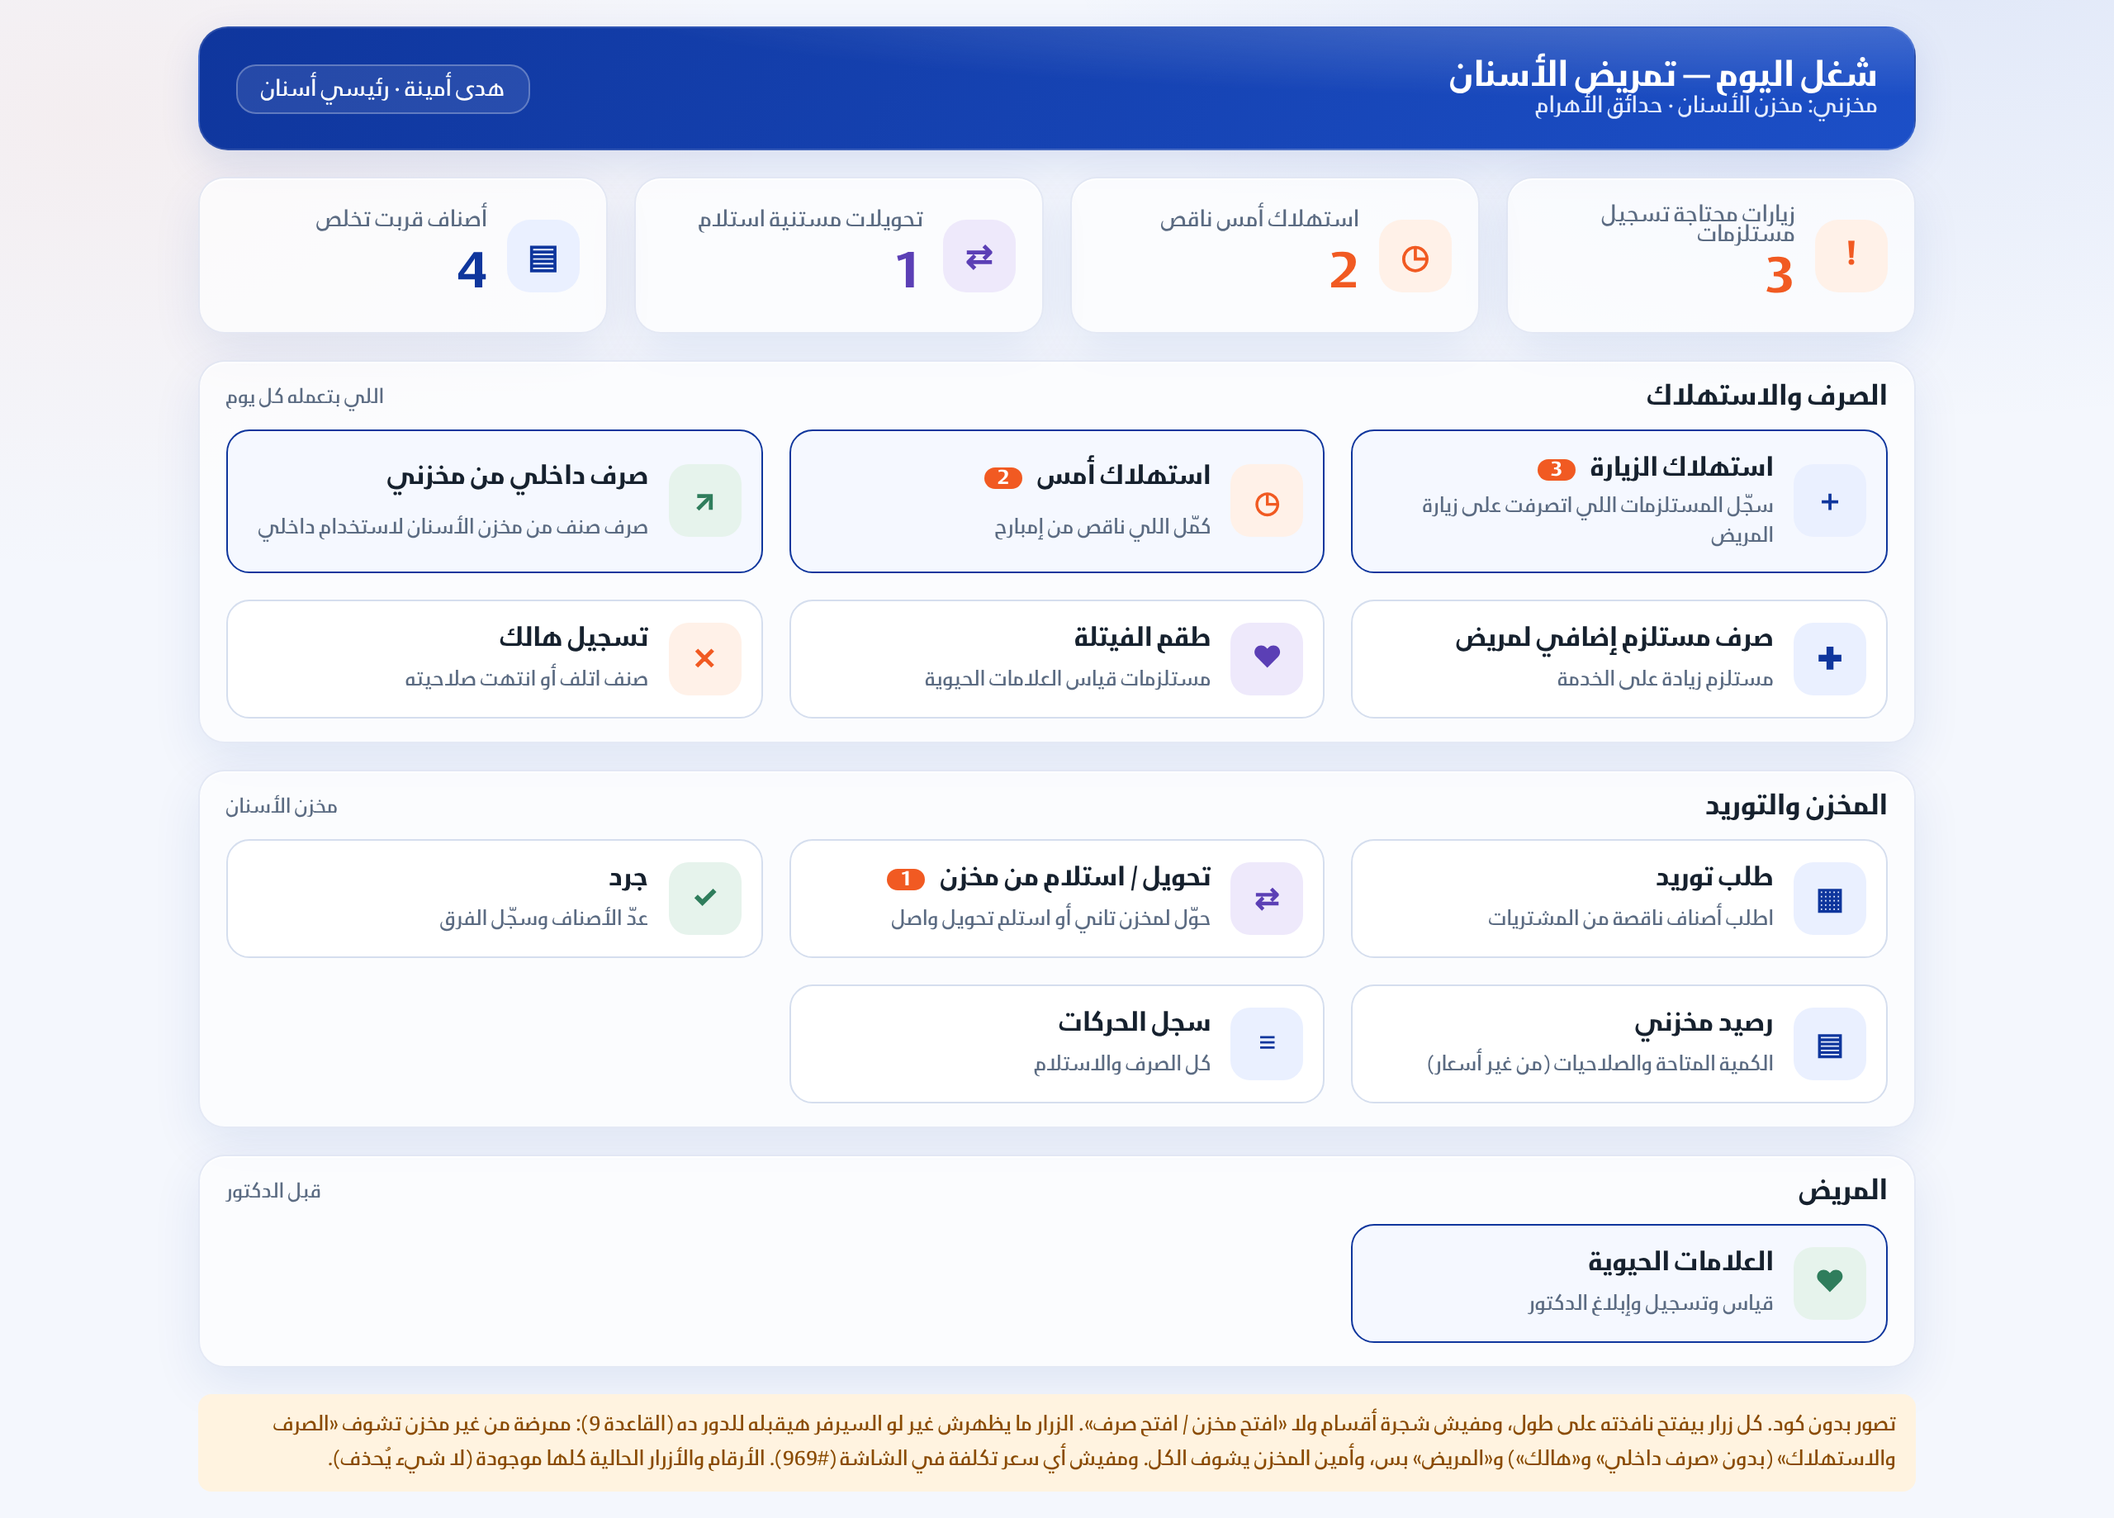
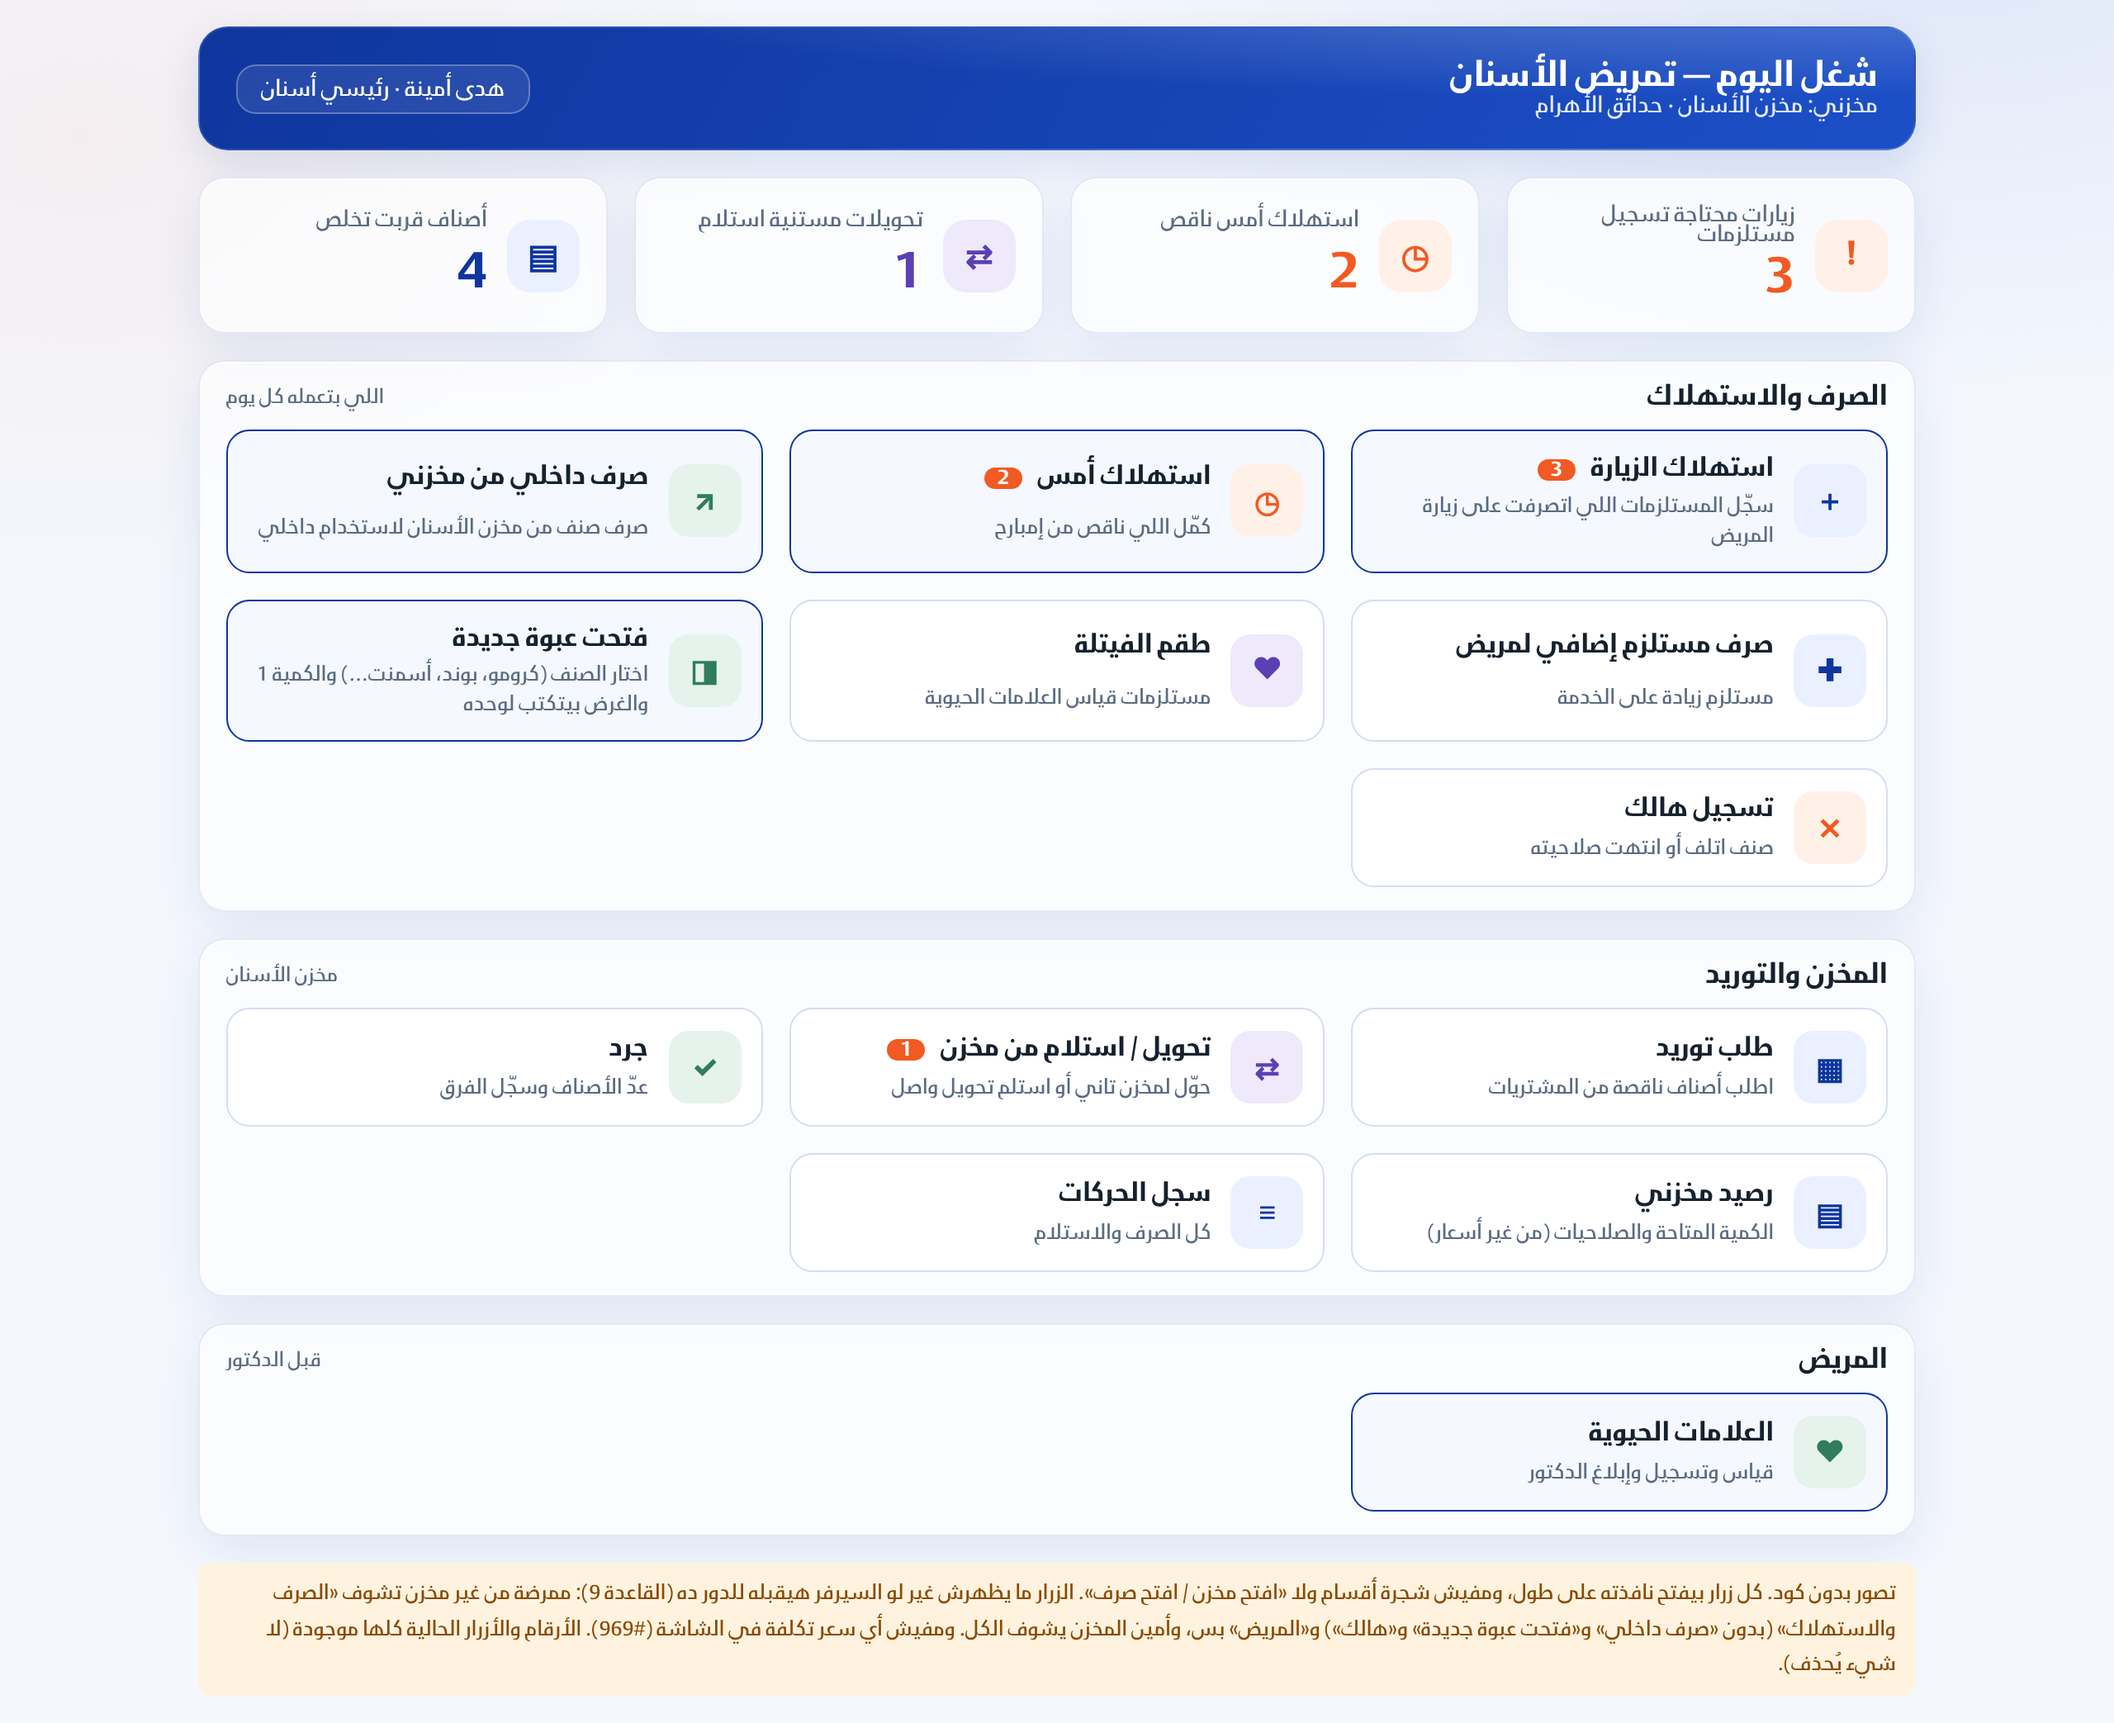
Mockup nursing home: add «فتحت عبوة جديدة»
Claude-Session: https://claude.ai/code/session_01UqVZHYaTTotc8ffTmdPoXh

diff --git a/docs/ui-references/mockups/nursing-home.html b/docs/ui-references/mockups/nursing-home.html
@@ -29,6 +29,7 @@ body{margin:0;padding:16px;background:#F4F7FD;background-image:radial-gradient(9
 <button class="act pri storegrp"><span class="ico i3">↗</span><b>صرف داخلي من مخزني</b><small>صرف صنف من مخزن الأسنان لاستخدام داخلي</small></button>
 <button class="act"><span class="ico i1">✚</span><b>صرف مستلزم إضافي لمريض</b><small>مستلزم زيادة على الخدمة</small></button>
 <button class="act"><span class="ico i4">♥</span><b>طقم الفيتلة</b><small>مستلزمات قياس العلامات الحيوية</small></button>
+<button class="act pri storegrp"><span class="ico i3">◨</span><b>فتحت عبوة جديدة</b><small>اختار الصنف (كرومو، بوند، أسمنت…) والكمية 1 والغرض بيتكتب لوحده</small></button>
 <button class="act storegrp"><span class="ico i2">✕</span><b>تسجيل هالك</b><small>صنف اتلف أو انتهت صلاحيته</small></button></div></div>
 <div class="grp glass storegrp"><div class="gh"><h4>المخزن والتوريد</h4><small>مخزن الأسنان</small></div><div class="btns">
 <button class="act"><span class="ico i1">▦</span><b>طلب توريد</b><small>اطلب أصناف ناقصة من المشتريات</small></button>
@@ -37,6 +38,6 @@ body{margin:0;padding:16px;background:#F4F7FD;background-image:radial-gradient(9
 <button class="act"><span class="ico i1">▤</span><b>رصيد مخزني</b><small>الكمية المتاحة والصلاحيات (من غير أسعار)</small></button>
 <button class="act"><span class="ico i1">≡</span><b>سجل الحركات</b><small>كل الصرف والاستلام</small></button></div></div>
 <div class="grp glass"><div class="gh"><h4>المريض</h4><small>قبل الدكتور</small></div><div class="btns"><button class="act pri"><span class="ico i3">♥</span><b>العلامات الحيوية</b><small>قياس وتسجيل وإبلاغ الدكتور</small></button></div></div>
-<div class="note">تصور بدون كود. كل زرار بيفتح نافذته على طول، ومفيش شجرة أقسام ولا «افتح مخزن / افتح صرف». الزرار ما يظهرش غير لو السيرفر هيقبله للدور ده (القاعدة 9): ممرضة من غير مخزن تشوف «الصرف والاستهلاك» (بدون «صرف داخلي» و«هالك») و«المريض» بس، وأمين المخزن يشوف الكل. ومفيش أي سعر تكلفة في الشاشة (#969). الأرقام والأزرار الحالية كلها موجودة (لا شيء يُحذف).</div>
+<div class="note">تصور بدون كود. كل زرار بيفتح نافذته على طول، ومفيش شجرة أقسام ولا «افتح مخزن / افتح صرف». الزرار ما يظهرش غير لو السيرفر هيقبله للدور ده (القاعدة 9): ممرضة من غير مخزن تشوف «الصرف والاستهلاك» (بدون «صرف داخلي» و«فتحت عبوة جديدة» و«هالك») و«المريض» بس، وأمين المخزن يشوف الكل. ومفيش أي سعر تكلفة في الشاشة (#969). الأرقام والأزرار الحالية كلها موجودة (لا شيء يُحذف).</div>
 </div>
 <script>if(location.hash==='#nurse')document.getElementById('app').classList.add('nurse')</script>
